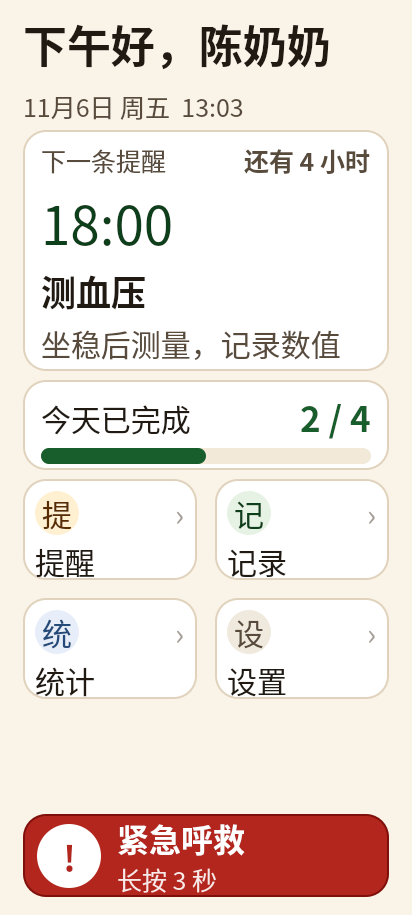
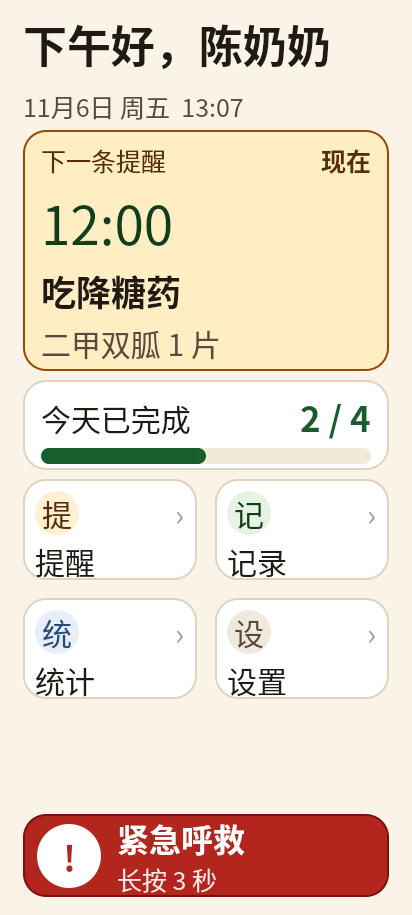
Fix: only leave the form after a plan is actually created
Also fix the dev screenshot hook closing the call overlay with the wrong
method name, and lock the stats keys in the facade test.

Changed region(s): [[0.0583, 0.0918, 0.9612, 0.4284]]

diff --git a/qml/AddReminderPage.qml b/qml/AddReminderPage.qml
@@ -37,7 +37,7 @@ Item {
         }
         page.error = ""
         // rule 的形状是冻结契约（docs/端上接口规范_v1.1.md 第 2 节）：
-        // daily / weekly / monthly / interval / course / meal_offset / once。
+        // 端上只支持 daily / weekly / monthly / once，见 docs/端上接口规范_v1.1.md §6。
         var rule = { kind: "daily", times: [page.timeText] }
         var today = new Date()
         if (page.repeatKind === "每周")
@@ -47,15 +47,16 @@ Item {
         else if (page.repeatKind === "仅一次")
             rule = { kind: "once", at: Qt.formatDateTime(today, "yyyy-MM-dd") + "T" + page.timeText + ":00" }
 
-        PlanVM.createPlan({
-            title: name,
-            dose: doseField.text.trim(),
-            note: noteField.text.trim(),
-            rule: rule,
-            windowMin: 30,
-            escalateAfterMin: 15
-        })
-        page.saved()
+        // 失败时 Main 会统一弹 commandRejected 的文案，这里不返回，避免"没建成却回到列表"。
+        if (PlanVM.createPlan({
+                title: name,
+                dose: doseField.text.trim(),
+                note: noteField.text.trim(),
+                rule: rule,
+                windowMin: 30,
+                escalateAfterMin: 15
+            }))
+            page.saved()
     }
 
     ColumnLayout {

diff --git a/src/main.cpp b/src/main.cpp
@@ -54,11 +54,10 @@ int main(int argc, char *argv[])
                     // 拍呼救倒计时：走 SosButton 同一条入口。
                     QMetaObject::invokeMethod(window, "startSos");
                 } else {
-                    for (const QString &name : {QStringLiteral("reminderScreen"),
-                                                QStringLiteral("callScreen")}) {
-                        if (auto *over = window->findChild<QObject *>(name))
-                            QMetaObject::invokeMethod(over, "close");
-                    }
+                    if (auto *reminder = window->findChild<QObject *>(QStringLiteral("reminderScreen")))
+                        QMetaObject::invokeMethod(reminder, "close");
+                    if (auto *call = window->findChild<QObject *>(QStringLiteral("callScreen")))
+                        QMetaObject::invokeMethod(call, "cancel");
                 }
                 QTimer::singleShot(overlay.isEmpty() ? 250 : 900, window, [window, shot] {
                     window->grabWindow().save(QString::fromLocal8Bit(shot));

diff --git a/tests/tst_app_core.cpp b/tests/tst_app_core.cpp
@@ -285,6 +285,13 @@ void FacadeCoreTest::statsShape()
         QVERIFY(day.contains(QStringLiteral("done")));
         QVERIFY(day.contains(QStringLiteral("total")));
         QVERIFY(day.contains(QStringLiteral("rate")));
+        QVERIFY(day.contains(QStringLiteral("expected")));
+        QVERIFY(day.contains(QStringLiteral("confirmed")));
+        QVERIFY(day.contains(QStringLiteral("missed")));
+        QCOMPARE(day.value(QStringLiteral("expected")).toInt(),
+                 day.value(QStringLiteral("total")).toInt());
+        QCOMPARE(day.value(QStringLiteral("confirmed")).toInt(),
+                 day.value(QStringLiteral("done")).toInt());
         QVERIFY(day.value(QStringLiteral("rate")).toInt() >= 0);
         QVERIFY(day.value(QStringLiteral("rate")).toInt() <= 100);
         QVERIFY(day.value(QStringLiteral("done")).toInt() <= day.value(QStringLiteral("total")).toInt());
